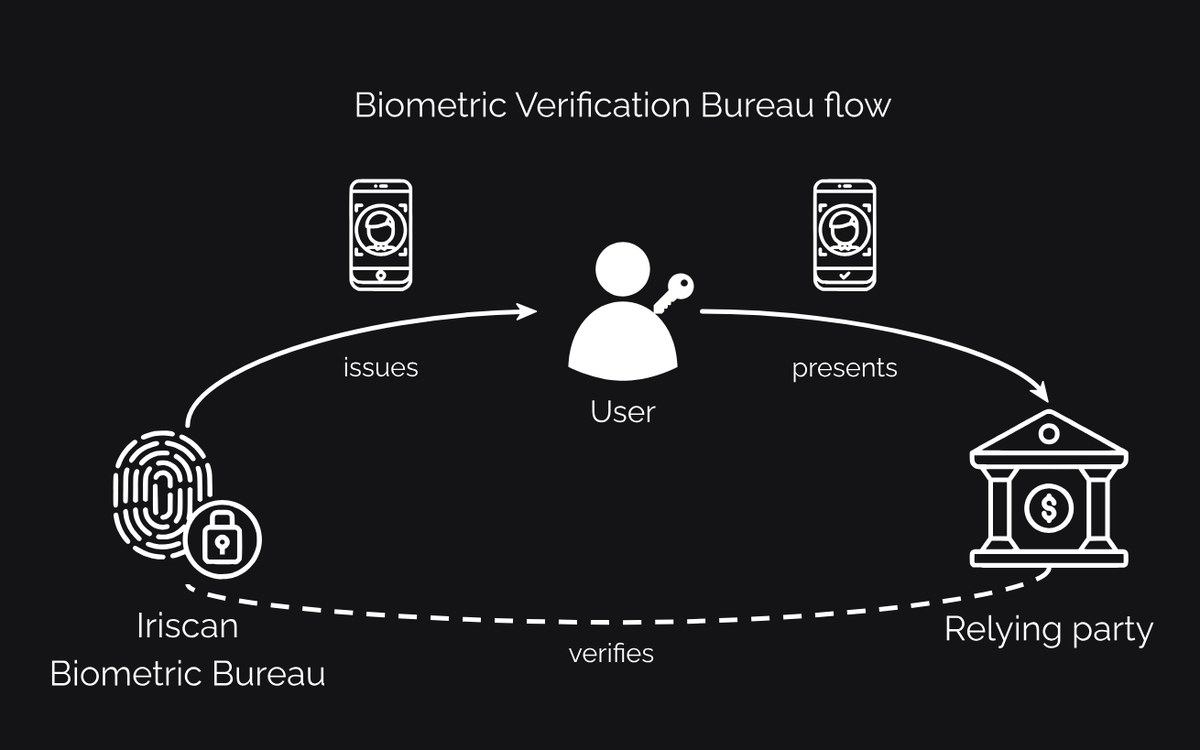
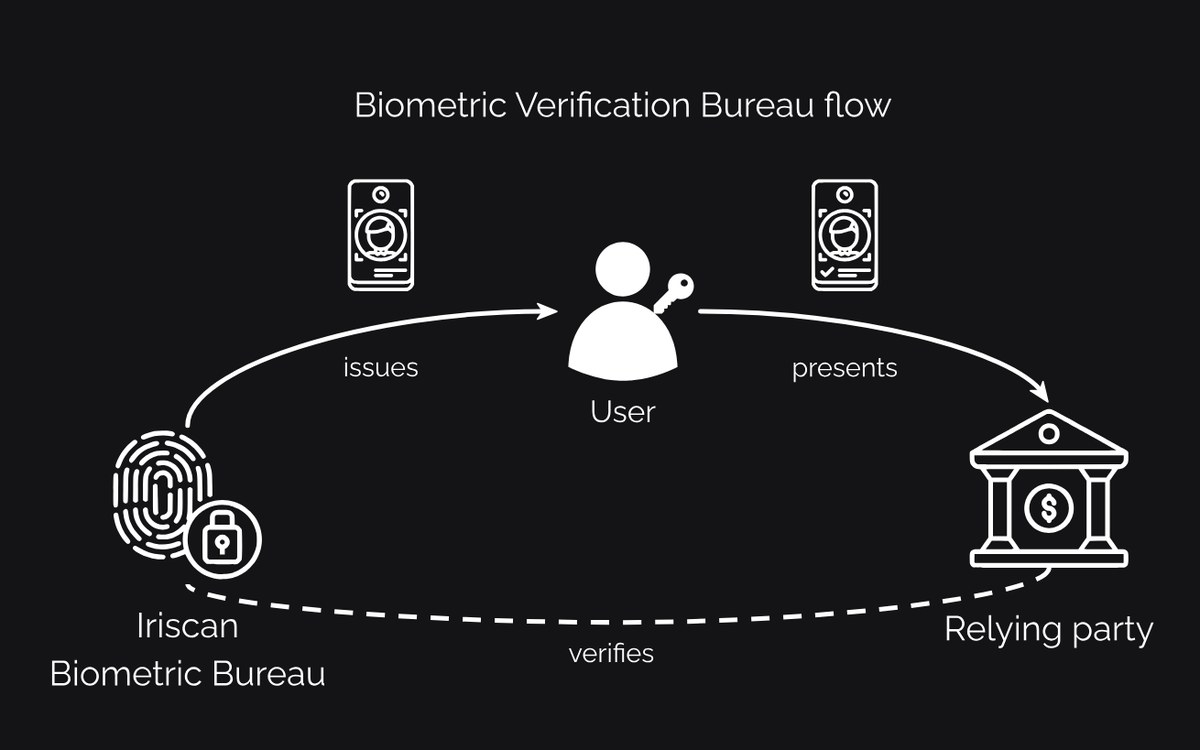
Web3 cover: modern phones, equal space around the user

Changed region(s): [[0.2775, 0.2147, 0.37, 0.3987], [0.6783, 0.2147, 0.74, 0.3987], [0.4317, 0.3987, 0.4625, 0.4293]]

diff --git a/post/web3-biometric-bureau-verifiable-credit-history.html b/post/web3-biometric-bureau-verifiable-credit-history.html
@@ -22,9 +22,9 @@
 <meta property="og:title" content="Web 3.0 Identity for the Unbanked: Biometric DIDs and Verifiable Credit Histories | Iriscan">
 <meta property="og:description" content="How a biometric bureau solves private key recovery in self-sovereign identity, and how a blockchain-anchored credit bureau lets lenders trust a credit history without seeing private data.">
 <meta property="og:url" content="https://www.iriscan.com/post/web3-biometric-bureau-verifiable-credit-history">
-<meta property="og:image" content="https://www.iriscan.com/assets/img/blog/web3-verification-bureau-flow-og.jpg?v=6">
+<meta property="og:image" content="https://www.iriscan.com/assets/img/blog/web3-verification-bureau-flow-og.jpg?v=7">
 <meta name="twitter:card" content="summary_large_image">
-<script type="application/ld+json">{"@context": "https://schema.org", "@type": "BlogPosting", "headline": "Web 3.0 Identity for the Unbanked: Biometric DIDs and Verifiable Credit Histories", "datePublished": "2026-08-30", "dateModified": "2026-08-30", "author": {"@type": "Person", "name": "Artem Poliakov", "jobTitle": "CEO, Iriscan", "url": "https://www.iriscan.com"}, "publisher": {"@type": "Organization", "name": "Biometric Technologies OÜ", "url": "https://www.iriscan.com"}, "image": "https://www.iriscan.com/assets/img/blog/web3-verification-bureau-flow-og.jpg?v=6", "mainEntityOfPage": "https://www.iriscan.com/post/web3-biometric-bureau-verifiable-credit-history", "description": "How a biometric bureau solves private key recovery in self-sovereign identity, and how a blockchain-anchored credit bureau lets lenders trust a credit history without seeing private data."}</script>
+<script type="application/ld+json">{"@context": "https://schema.org", "@type": "BlogPosting", "headline": "Web 3.0 Identity for the Unbanked: Biometric DIDs and Verifiable Credit Histories", "datePublished": "2026-08-30", "dateModified": "2026-08-30", "author": {"@type": "Person", "name": "Artem Poliakov", "jobTitle": "CEO, Iriscan", "url": "https://www.iriscan.com"}, "publisher": {"@type": "Organization", "name": "Biometric Technologies OÜ", "url": "https://www.iriscan.com"}, "image": "https://www.iriscan.com/assets/img/blog/web3-verification-bureau-flow-og.jpg?v=7", "mainEntityOfPage": "https://www.iriscan.com/post/web3-biometric-bureau-verifiable-credit-history", "description": "How a biometric bureau solves private key recovery in self-sovereign identity, and how a blockchain-anchored credit bureau lets lenders trust a credit history without seeing private data."}</script>
 </head>
 <body class="post-page">
 <header>
@@ -85,7 +85,7 @@
 <div class="article-outer"><article class="article">
 <div class="meta-top"><span>Aug 30, 2026 &middot; 6 min read</span></div>
 <h1>Web 3.0 Identity for the Unbanked: Biometric DIDs and Verifiable Credit Histories</h1>
-<figure class="hero-photo"><img src="../assets/img/blog/web3-verification-bureau-flow.svg?v=6" alt="Biometric verification bureau flow: the Iriscan biometric bureau issues a credential to the user, the user presents it to a relying party, the relying party verifies it with the bureau" width="1200" height="750"></figure>
+<figure class="hero-photo"><img src="../assets/img/blog/web3-verification-bureau-flow.svg?v=7" alt="Biometric verification bureau flow: the Iriscan biometric bureau issues a credential to the user, the user presents it to a relying party, the relying party verifies it with the bureau" width="1200" height="750"></figure>
 
 <p class="lead">What happens to a person's digital identity when the phone is lost? In the Web 3.0 model the user holds the private key and the credentials, and nobody else can restore them. For a crypto enthusiast this is a feature. For a refugee or a farmer who needs a loan, it means losing their identity and credit history together with the phone. In INGRESS we proposed a solution to this problem: a biometric bureau that binds the key to the person, and a credit history that can be verified on a blockchain without disclosing private data.</p>
 

diff --git a/blog.html b/blog.html
@@ -131,7 +131,7 @@
 <div class="pad"><div class="meta">Sep 6, 2026 &middot; 5 min read</div><h3>One Person, One Identity: Biometrics in Elections and at the Border</h3>
 <p>2.78 million invalid voter registrations, 73,180 caught at the border: what Nigeria, the UAE and the EU show about public biometric registers.</p><span class="more">Read article &rarr;</span></div></a>
 <a class="card post-card" href="/post/web3-biometric-bureau-verifiable-credit-history">
-<div class="pc-img"><img src="assets/img/blog/web3-verification-bureau-flow.svg?v=6" alt="Biometric verification bureau flow" width="640" height="400" loading="lazy"></div>
+<div class="pc-img"><img src="assets/img/blog/web3-verification-bureau-flow.svg?v=7" alt="Biometric verification bureau flow" width="640" height="400" loading="lazy"></div>
 <div class="pad"><div class="meta">Aug 30, 2026 &middot; 6 min read</div><h3>Web 3.0 Identity for the Unbanked: Biometric DIDs and Verifiable Credit Histories</h3>
 <p>Biometric DIDs that survive a lost phone, and credit histories that lenders can verify on a blockchain without seeing private data.</p><span class="more">Read article &rarr;</span></div></a>
 <a class="card post-card" href="/post/biometric-verification-health-insurance-ghana-kenya">
